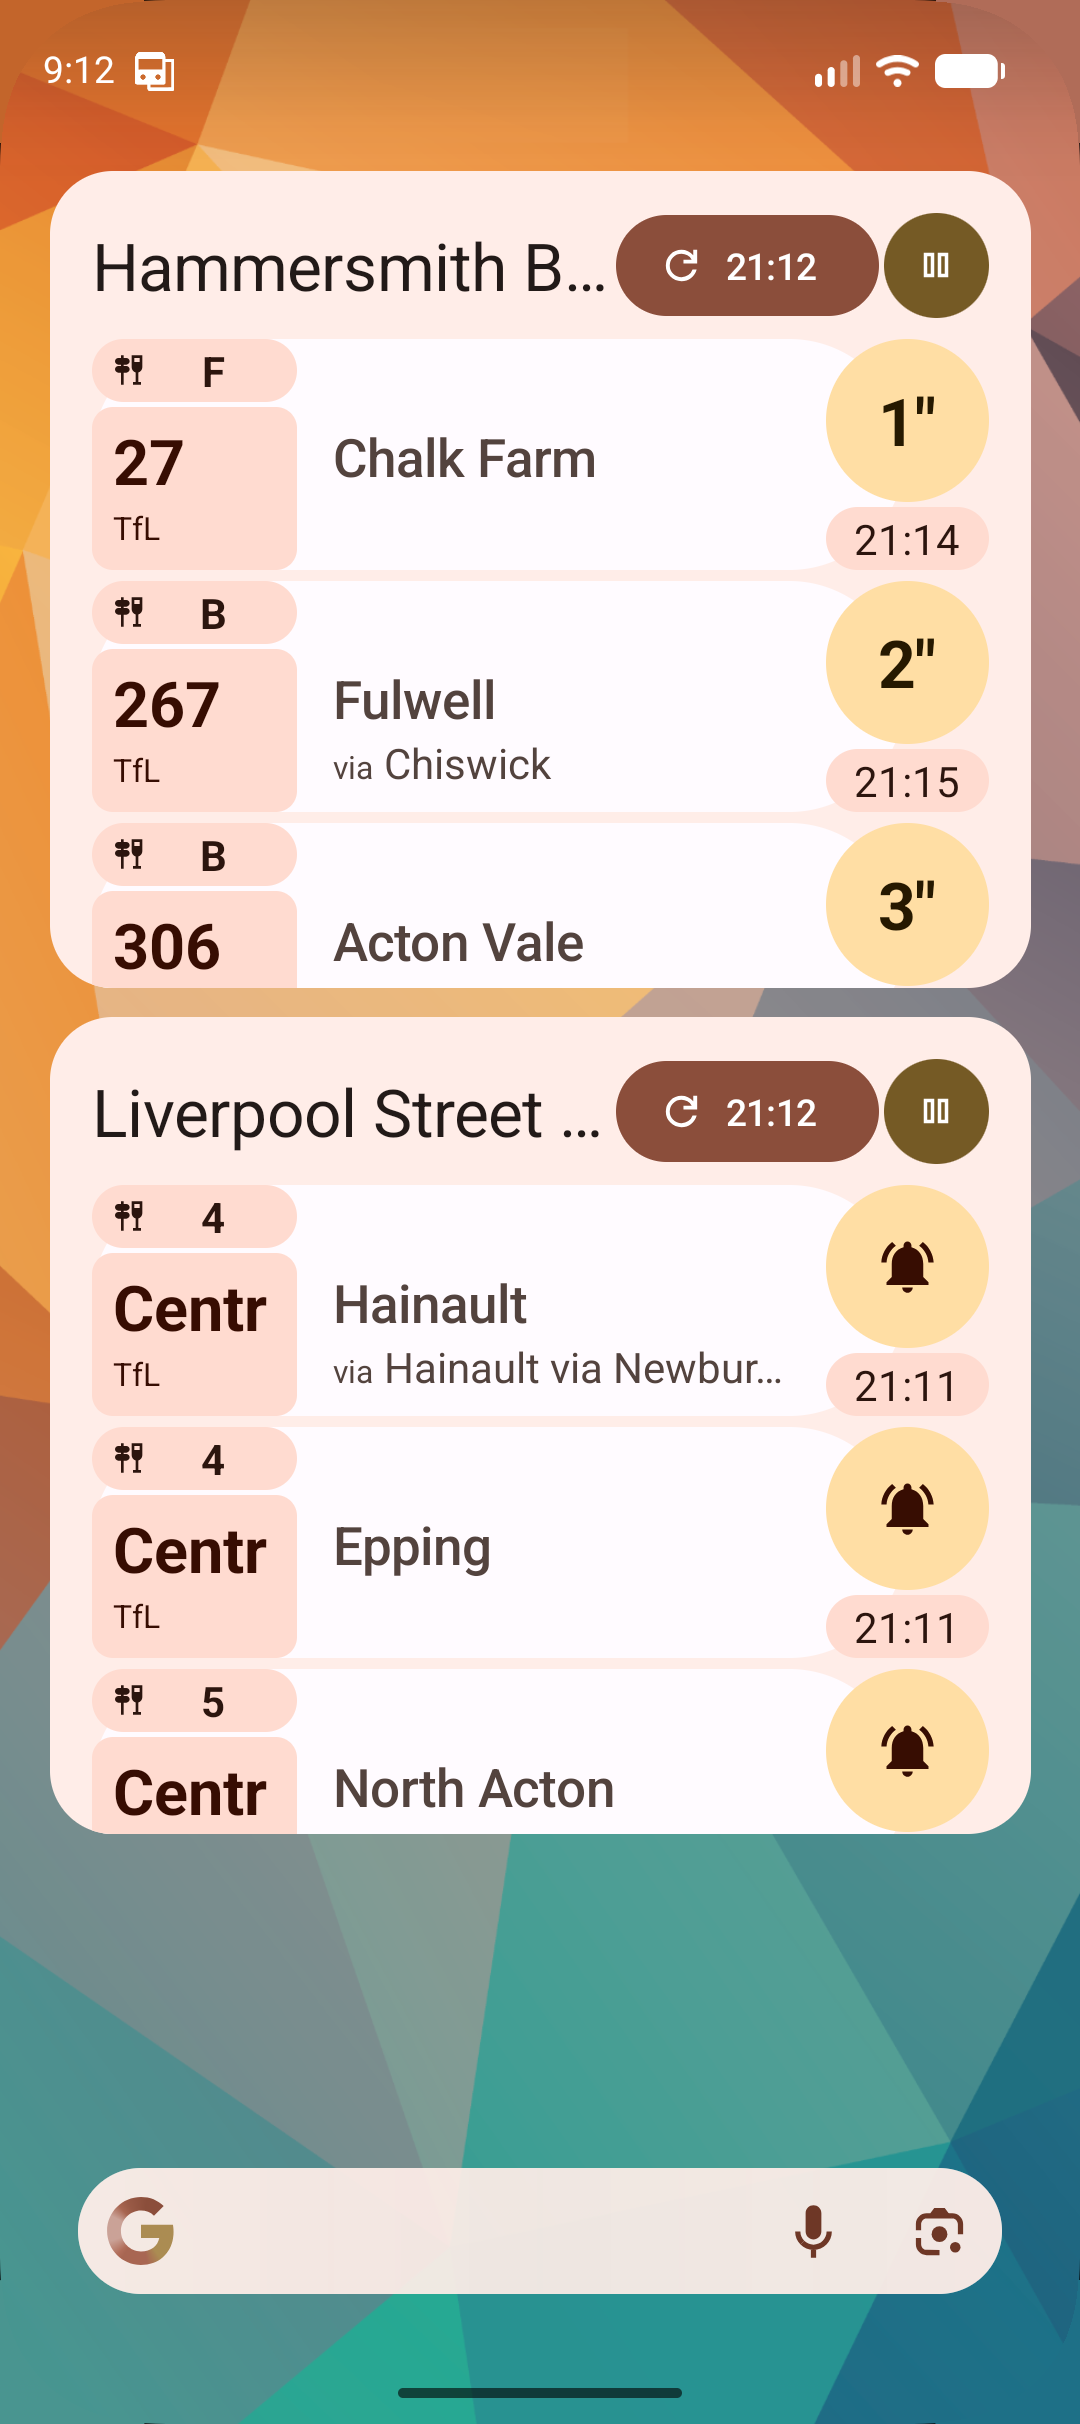
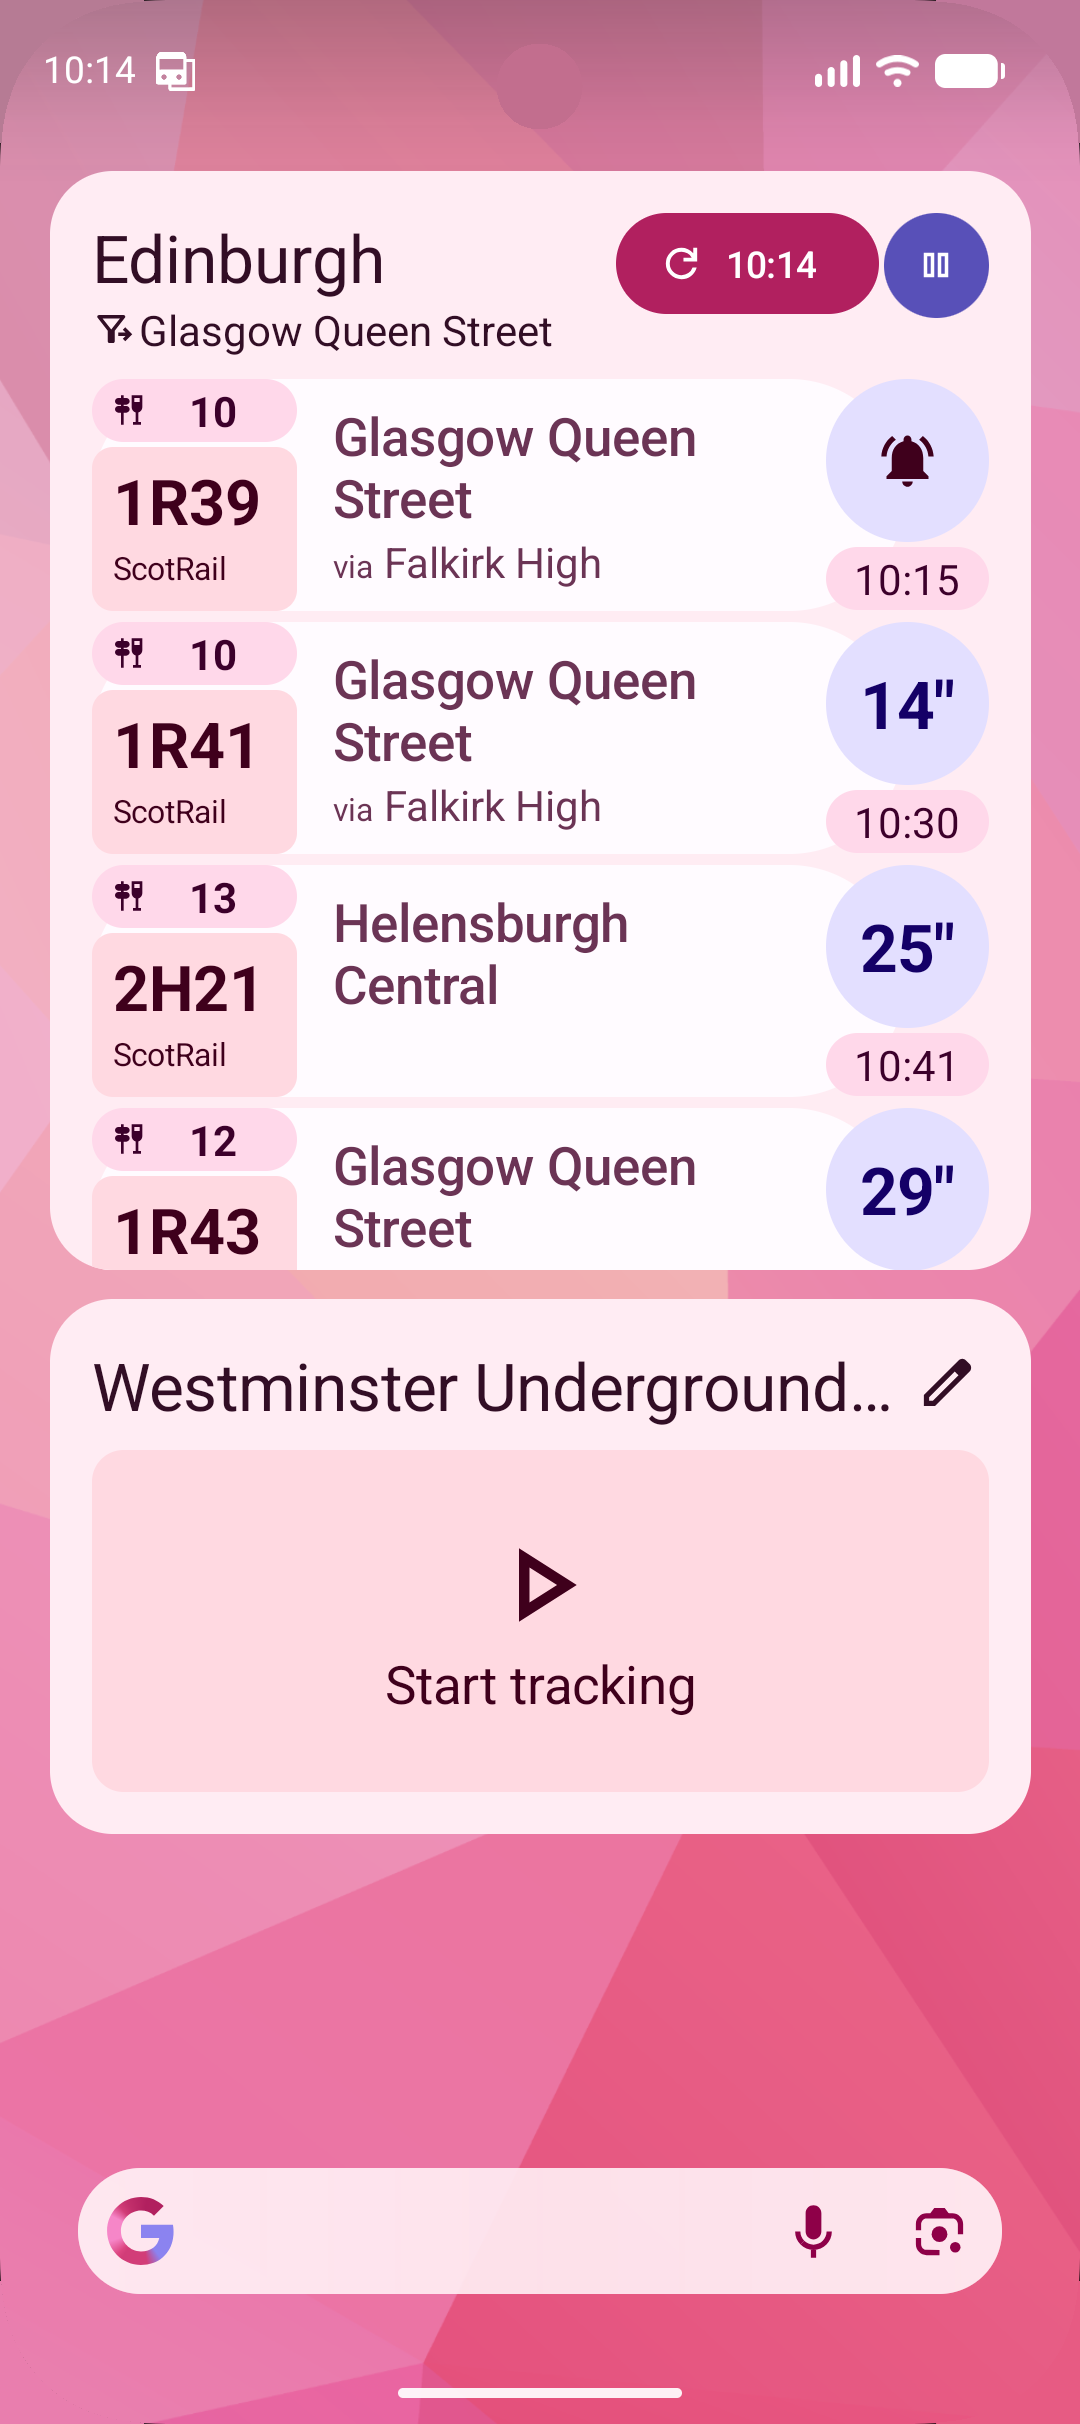
release 2.1.0

diff --git a/README.md b/README.md
@@ -1,3 +1,5 @@
+![Banner](fastlane/metadata/android/en-US/images/featureGraphic.png)
+
 # Transport Widget
 
 Available for England, Scotland, and Wales rail services and London buses, tube, and riverbus services
@@ -14,9 +16,9 @@ Android (F-Droid)                            |	Android (Release Page)
 ## Screenshots
 
 
-|                                            Widget |                 Search Screen                  |                  Provider Screen                   | About Screen                                 |
-|--------------------------------------------------:|:----------------------------------------------:|:--------------------------------------------------:|:---------------------------------------------|
-| ![Provider Screen](screenshot/widget-running.png) | ![Provider Screen](screenshot/widget-edit.png) | ![Provider Screen](screenshot/provider-screen.png) | ![About Screen](screenshot/about-screen.png) |
+|                                            Widget |                 Config Screen                  |                  Home Screen                   | About Screen                                 |
+|--------------------------------------------------:|:----------------------------------------------:|:----------------------------------------------:|:---------------------------------------------|
+| ![Provider Screen](fastlane/metadata/android/en-US/images/phoneScreenshots/1.png) | ![Config Screen](fastlane/metadata/android/en-US/images/phoneScreenshots/3.png) | ![Home Screen](fastlane/metadata/android/en-US/images/phoneScreenshots/2.png) | ![About Screen](/fastlane/metadata/android/en-US/images/phoneScreenshots/5.png) |
 
 ## Adding Widgets
 Widgets can be added to the home screen from the home screen or from the app (Android 8+).
